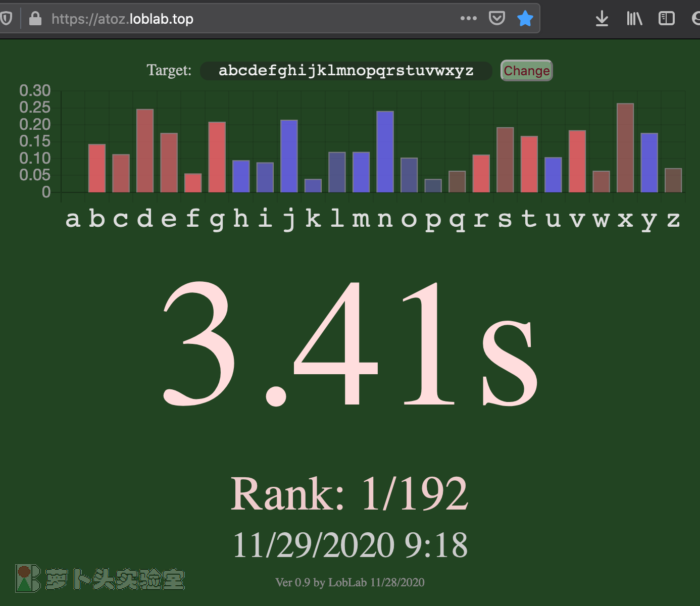
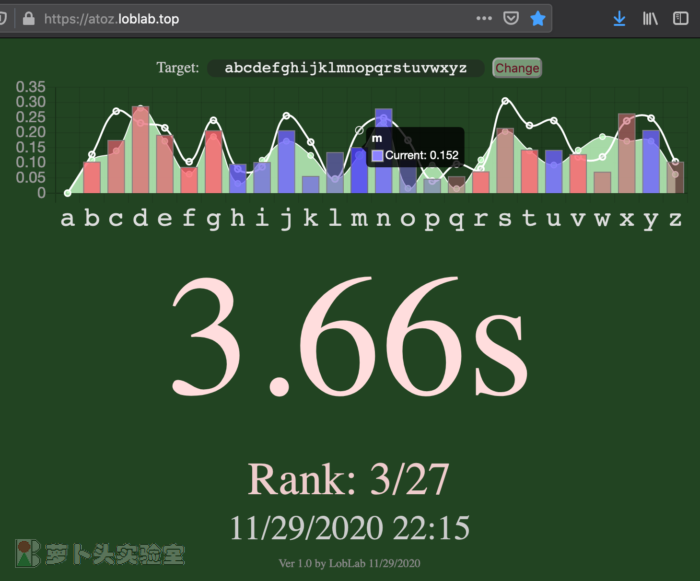
Ver 1.0: show record and latest one details on chart

diff --git a/typespeed.htm b/typespeed.htm
@@ -81,12 +81,14 @@
       crossorigin="anonymous"
     ></script>
     <script>
-      const version = "Ver 0.9 by LobLab 11/29/2020";
+      const version = "Ver 1.0 by LobLab 11/29/2020";
       var target = "abcdefghijklmnopqrstuvwxyz";
       var inputKeys = "";
       var inputDurs = [];
       var prevTs = 0;
       var hitChart = null;
+      var latestSeries = 0;
+      var recordSeries = 0;
 
       var keyGroup = ["1qaz", "2wsx", "3edc", "4rfv5tgb", "6yhn7ujm", "8ik,", "9ol.", "0p;/", " "];
       var colorGroup = [
@@ -132,10 +134,26 @@
             labels: [],
             datasets: [
               {
+                label: "Current",
                 data: [],
                 backgroundColor: [],
                 borderColor: "rgba(128, 128, 128, 1)",
                 borderWidth: 1,
+              },
+              {
+                label: "Record",
+                type: "line",
+                data: [],
+                backgroundColor: "rgba(200, 255, 200, 0.8)",
+                borderColor: "rgba(255, 255, 255, 1)",
+                borderWidth: 1,
+              },
+              {
+                label: "Latest",
+                type: "line",
+                data: [],
+                borderColor: "rgba(255, 255, 255, 1)",
+                borderWidth: 2,
               },
             ],
           },
@@ -167,6 +185,8 @@
             },
           },
         });
+        recordSeries = 1;
+        latestSeries = 2;
       }
 
       function saveKey(key, dur) {
@@ -174,11 +194,21 @@
         inputKeys += key;
         inputDurs.push(dur);
         hitChart.data.labels.push(key);
-        hitChart.data.datasets.forEach((dataset) => {
-          dataset.data.push(dur / 1000.0);
-          let color = keyColor[key.toLowerCase()];
-          dataset.backgroundColor.push(color);
-        });
+
+        let current = hitChart.data.datasets[0];
+        current.data.push(dur / 1000.0);
+        let color = keyColor[key.toLowerCase()];
+        current.backgroundColor.push(color);
+
+        hitChart.update();
+      }
+
+      function drawSeries(index, data) {
+        let dset = hitChart.data.datasets[index].data;
+        dset.push(0);
+        for (let d of data) {
+          dset.push(d / 1000.0);
+        }
         hitChart.update();
       }
 
@@ -186,10 +216,9 @@
         inputKeys = inputKeys.substring(inputKeys.length - target.length);
         inputDurs.shift();
         hitChart.data.labels.shift();
-        hitChart.data.datasets.forEach((dataset) => {
-          dataset.data.shift();
-          dataset.backgroundColor.shift();
-        });
+        let current = hitChart.data.datasets[0];
+        current.data.shift();
+        current.backgroundColor.shift();
         hitChart.update();
       }
 
@@ -197,9 +226,9 @@
         inputDurs = [];
         inputKeys = "";
         hitChart.data.labels = [];
+        hitChart.data.datasets[0].backgroundColor = [];
         hitChart.data.datasets.forEach((dataset) => {
           dataset.data = [];
-          dataset.backgroundColor = [];
         });
         hitChart.update();
       }
@@ -257,9 +286,15 @@
           contentType: "application/json",
           type: "POST",
           success: function (data) {
-            console.log(data);
+            //console.log(data);
             let msg = "Rank: " + data.rank + "/" + data.samples;
             $("#rank").text(msg);
+            if (data.record) {
+              drawSeries(recordSeries, data.record);
+            }
+            if (data.latest) {
+              drawSeries(latestSeries, data.latest);
+            }
           },
         });
       }
@@ -269,10 +304,12 @@
         $("#target").prop("disabled", true);
         $("#target").val(target);
 
-        //saveScore("abcd", [0, 100, 200, 300]);
+        //debug saveScore("abcd", [0, 100, 200, 300]);
         initColor();
         initChart();
         welcome("Type till match Target");
+        //debug drawSeries(1, [100, 80, 90, 50, 50, 60]);
+        //debug drawSeries(2, [40, 60, 30, 20, 30, 40]);
 
         $("#target").change(function () {
           target = $("#target").val();

diff --git a/service.py b/service.py
@@ -78,11 +78,11 @@ def api_put_score():
         dur = save_score(ts, keys, req["durs"], ip)
         (rank, samples) = query_rank(keys, dur)
         record = query_record(keys)
-        recent = query_recent(keys, ip, ts * 1000)
+        latest = query_latest(keys, ip, ts * 1000)
         resp["samples"] = samples
         resp["rank"] = rank
         resp["record"] = record
-        resp["recent"] = recent
+        resp["latest"] = latest
         resp["status"] = "OK"
     except Exception as e:
         msg = str(e)
@@ -204,13 +204,13 @@ def query_record(key):
         return durs
     return None
 
-@app.route('/api/recent/<key>', methods=['GET'])
-def api_recent(key):
+@app.route('/api/latest/<key>', methods=['GET'])
+def api_latest(key):
     init_db()
     ip = request.environ.get('HTTP_X_REAL_IP', request.remote_addr)
     resp = {}
     try:
-        durs = query_recent(key, ip)
+        durs = query_latest(key, ip)
         resp["status"] = "OK"
         resp["keys"] = key
         resp["durs"] = durs
@@ -222,7 +222,7 @@ def api_recent(key):
     close_db();
     return jsonify(resp)
 
-def query_recent(key, ip, now=None):
+def query_latest(key, ip, now=None):
     cond = "\"key\"='%s' and \"ip\"='%s'" % (key, ip)
     if now is not None:
         cond += " and \"time\" < %d" % now

diff --git a/README.md b/README.md
@@ -19,10 +19,12 @@ How fast can you type A to Z? [Test online and rank!](https://atoz.loblab.top/)
 - Can change Target, it is default to A to Z (abcdefghijklmnopqrstuvwxyz)
 - Upload score (total & every key) of the completed round to database
 - Show rank among the uploaded scores
+- Show record and latest score on chart
 
 ## History
 
-- 0.9 (11/28/2020): Unlock to change Target
+- 1.0 (11/29/2020): Show record and latest one
+- 0.9 (11/29/2020): Unlock to change Target
 - 0.8 (11/28/2020): Show rank
 - 0.7 (11/28/2020): Save every key hit speed to database
 - 0.6 (11/28/2020): As a flask web service; sum key hit durations as final score
